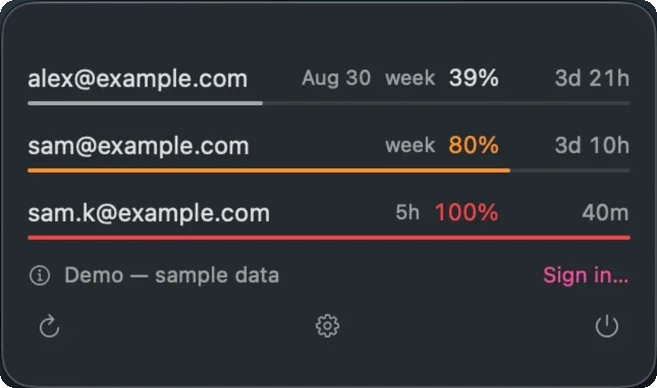
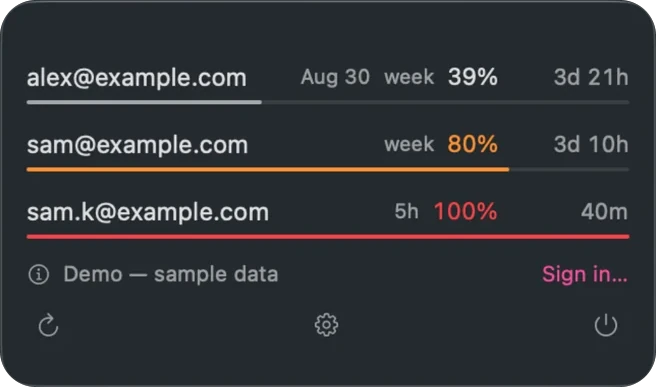
Cut the screenshots on the window's rim, and give the arc an edge
The corners had black horns on the light palette, and neither cause was in the
page: both are baked into the images by `tools/crop_screenshots.py`.

`ImageDraw.rounded_rectangle` writes 0 or 255 and nothing between, so every arc
it had drawn here was a staircase — cut through a dark window standing on a
near-white page at roughly the size the page shows it, which is the one place a
hard alpha edge has nothing to hide behind. The mask is drawn at eight times the
size and averaged down with BOX, which leaves each edge pixel holding the
fraction of itself the shape covers.

And the radius was smaller than the corner. A macOS window corner is a
continuous curve, not a circular arc: it leaves the straight edge earlier than an
arc of the same visual size and sits further from the corner along the diagonal.
A circle at the radius the corner appears to have therefore ran outside the
window for most of the arc, and what it kept was the window's own shadow, which
is at its darkest and widest exactly there. On `05-minimal` that was six pixels
of near-black in each corner; on the other three it was the violet gradient, a
hundred pixels an image, which read as grime rather than as a defect. The radii
are 15 and 36 now, each the first value at which nothing survives outside the
mask — counted, not judged by eye, because by eye the old ones looked plausible
for a year.

`05-minimal`'s box also moves in a pixel at the left and top. It had been taking
[…]

diff --git a/site/bn/index.html b/site/bn/index.html
@@ -899,7 +899,7 @@ a.lang-row:hover{background:var(--strip);text-decoration:none}
         <figure><img src="/shots/02-accounts.webp" width="718" height="500" alt="অ্যাকাউন্ট সেটিংস: একটাই তালিকায় তিনটি অ্যাকাউন্ট, প্রত্যেকের উৎস আর ভুলে যাওয়ার বোতামসহ।"></figure>
         <figure><img src="/shots/03-statistics.webp" width="717" height="500" alt="পরিসংখ্যান সেটিংস: তিনটি অ্যাকাউন্টের এক সপ্তাহের সাপ্তাহিক সীমার ব্যবহার আঁকা।"></figure>
         <figure><img src="/shots/04-notifications.webp" width="718" height="500" alt="বিজ্ঞপ্তি সেটিংস: ৯৫ ও ৮০ শতাংশে সীমারেখা, ফিরে আসার খবর আর নীরব সময়।"></figure>
-        <figure><img src="/shots/05-minimal.webp" width="657" height="388" alt="সংক্ষিপ্ত জানালা: অ্যাকাউন্টের নাম আর ব্যবহারের বার, চারপাশের সাজ ছাড়া।"></figure>
+        <figure><img src="/shots/05-minimal.webp" width="656" height="387" alt="সংক্ষিপ্ত জানালা: অ্যাকাউন্টের নাম আর ব্যবহারের বার, চারপাশের সাজ ছাড়া।"></figure>
       </div>
       <div class="rail">
         <label class="mark" for="s1">সীমা</label>

diff --git a/site/hi/index.html b/site/hi/index.html
@@ -899,7 +899,7 @@ a.lang-row:hover{background:var(--strip);text-decoration:none}
         <figure><img src="/shots/02-accounts.webp" width="718" height="500" alt="खाता सेटिंग्स: एक ही सूची में तीन खाते, हर एक के स्रोत और भूल जाने के बटन के साथ।"></figure>
         <figure><img src="/shots/03-statistics.webp" width="717" height="500" alt="आँकड़ा सेटिंग्स: तीन खातों के लिए एक सप्ताह की साप्ताहिक सीमा का उपयोग बनाया गया।"></figure>
         <figure><img src="/shots/04-notifications.webp" width="718" height="500" alt="सूचना सेटिंग्स: 95 और 80 प्रतिशत पर सीमाएँ, बहाली की सूचनाएँ और शांत घंटे।"></figure>
-        <figure><img src="/shots/05-minimal.webp" width="657" height="388" alt="न्यूनतम खिड़की: खातों के नाम और उपयोग की पट्टियाँ, चारों ओर की सजावट के बिना।"></figure>
+        <figure><img src="/shots/05-minimal.webp" width="656" height="387" alt="न्यूनतम खिड़की: खातों के नाम और उपयोग की पट्टियाँ, चारों ओर की सजावट के बिना।"></figure>
       </div>
       <div class="rail">
         <label class="mark" for="s1">सीमाएँ</label>

diff --git a/site/ru/index.html b/site/ru/index.html
@@ -899,7 +899,7 @@ a.lang-row:hover{background:var(--strip);text-decoration:none}
         <figure><img src="/shots/02-accounts.webp" width="718" height="500" alt="Настройки аккаунтов: три аккаунта в одном списке, у каждого свой источник и кнопка забыть его."></figure>
         <figure><img src="/shots/03-statistics.webp" width="717" height="500" alt="Настройки статистики: неделя расхода недельного лимита по трём аккаунтам."></figure>
         <figure><img src="/shots/04-notifications.webp" width="718" height="500" alt="Настройки уведомлений: пороги на 95 и 80 процентах, оповещения о восстановлении и тихие часы."></figure>
-        <figure><img src="/shots/05-minimal.webp" width="657" height="388" alt="Минимальное окно: имена аккаунтов и полосы расхода, без окружающей обвязки."></figure>
+        <figure><img src="/shots/05-minimal.webp" width="656" height="387" alt="Минимальное окно: имена аккаунтов и полосы расхода, без окружающей обвязки."></figure>
       </div>
       <div class="rail">
         <label class="mark" for="s1">Лимиты</label>

diff --git a/site/ar/index.html b/site/ar/index.html
@@ -899,7 +899,7 @@ a.lang-row:hover{background:var(--strip);text-decoration:none}
         <figure><img src="/shots/02-accounts.webp" width="718" height="500" alt="إعدادات الحسابات: ثلاثة حسابات في قائمة واحدة، لكل منها مصدره وزر لنسيانه."></figure>
         <figure><img src="/shots/03-statistics.webp" width="717" height="500" alt="إعدادات الإحصاءات: أسبوع من استخدام الحد الأسبوعي مرسوم لثلاثة حسابات."></figure>
         <figure><img src="/shots/04-notifications.webp" width="718" height="500" alt="إعدادات التنبيهات: عتبات عند 95 و80 بالمئة، وتنبيهات التعافي، والساعات الهادئة."></figure>
-        <figure><img src="/shots/05-minimal.webp" width="657" height="388" alt="النافذة المصغّرة: أسماء الحسابات وأشرطة الاستخدام، دون الإطار المحيط."></figure>
+        <figure><img src="/shots/05-minimal.webp" width="656" height="387" alt="النافذة المصغّرة: أسماء الحسابات وأشرطة الاستخدام، دون الإطار المحيط."></figure>
       </div>
       <div class="rail">
         <label class="mark" for="s1">الحدود</label>

diff --git a/site/fr/index.html b/site/fr/index.html
@@ -899,7 +899,7 @@ a.lang-row:hover{background:var(--strip);text-decoration:none}
         <figure><img src="/shots/02-accounts.webp" width="718" height="500" alt="Réglages des comptes : trois comptes dans une liste, chacun avec sa source et un bouton pour l'oublier."></figure>
         <figure><img src="/shots/03-statistics.webp" width="717" height="500" alt="Réglages des statistiques : une semaine d'usage de la limite hebdomadaire tracée pour trois comptes."></figure>
         <figure><img src="/shots/04-notifications.webp" width="718" height="500" alt="Réglages des alertes : seuils à 95 et 80 pour cent, alertes de rétablissement et heures calmes."></figure>
-        <figure><img src="/shots/05-minimal.webp" width="657" height="388" alt="La fenêtre minimale : noms de comptes et barres d'usage, sans l'habillage autour."></figure>
+        <figure><img src="/shots/05-minimal.webp" width="656" height="387" alt="La fenêtre minimale : noms de comptes et barres d'usage, sans l'habillage autour."></figure>
       </div>
       <div class="rail">
         <label class="mark" for="s1">Limites</label>

diff --git a/site/es/index.html b/site/es/index.html
@@ -899,7 +899,7 @@ a.lang-row:hover{background:var(--strip);text-decoration:none}
         <figure><img src="/shots/02-accounts.webp" width="718" height="500" alt="Ajustes de cuentas: tres cuentas en una lista, cada una con su origen y un botón para olvidarla."></figure>
         <figure><img src="/shots/03-statistics.webp" width="717" height="500" alt="Ajustes de estadísticas: una semana de uso del límite semanal trazada para tres cuentas."></figure>
         <figure><img src="/shots/04-notifications.webp" width="718" height="500" alt="Ajustes de avisos: umbrales al 95 y al 80 por ciento, avisos de recuperación y horas de silencio."></figure>
-        <figure><img src="/shots/05-minimal.webp" width="657" height="388" alt="La ventana mínima: nombres de cuenta y barras de uso, sin el marco alrededor."></figure>
+        <figure><img src="/shots/05-minimal.webp" width="656" height="387" alt="La ventana mínima: nombres de cuenta y barras de uso, sin el marco alrededor."></figure>
       </div>
       <div class="rail">
         <label class="mark" for="s1">Límites</label>

diff --git a/site/pt-br/index.html b/site/pt-br/index.html
@@ -899,7 +899,7 @@ a.lang-row:hover{background:var(--strip);text-decoration:none}
         <figure><img src="/shots/02-accounts.webp" width="718" height="500" alt="Ajustes de contas: três contas em uma lista, cada uma com sua origem e um botão para esquecê-la."></figure>
         <figure><img src="/shots/03-statistics.webp" width="717" height="500" alt="Ajustes de estatísticas: uma semana de uso do limite semanal traçada para três contas."></figure>
         <figure><img src="/shots/04-notifications.webp" width="718" height="500" alt="Ajustes de avisos: limiares em 95 e 80 por cento, avisos de recuperação e horas de silêncio."></figure>
-        <figure><img src="/shots/05-minimal.webp" width="657" height="388" alt="A janela mínima: nomes de conta e barras de uso, sem a moldura em volta."></figure>
+        <figure><img src="/shots/05-minimal.webp" width="656" height="387" alt="A janela mínima: nomes de conta e barras de uso, sem a moldura em volta."></figure>
       </div>
       <div class="rail">
         <label class="mark" for="s1">Limites</label>

diff --git a/site/id/index.html b/site/id/index.html
@@ -899,7 +899,7 @@ a.lang-row:hover{background:var(--strip);text-decoration:none}
         <figure><img src="/shots/02-accounts.webp" width="718" height="500" alt="Setelan akun: tiga akun dalam satu daftar, masing-masing dengan sumbernya dan tombol untuk melupakannya."></figure>
         <figure><img src="/shots/03-statistics.webp" width="717" height="500" alt="Setelan statistik: pemakaian batas mingguan selama sepekan digambar untuk tiga akun."></figure>
         <figure><img src="/shots/04-notifications.webp" width="718" height="500" alt="Setelan pemberitahuan: ambang di 95 dan 80 persen, kabar pemulihan, dan jam tenang."></figure>
-        <figure><img src="/shots/05-minimal.webp" width="657" height="388" alt="Jendela ringkas: nama akun dan bilah pemakaian, tanpa bingkai di sekelilingnya."></figure>
+        <figure><img src="/shots/05-minimal.webp" width="656" height="387" alt="Jendela ringkas: nama akun dan bilah pemakaian, tanpa bingkai di sekelilingnya."></figure>
       </div>
       <div class="rail">
         <label class="mark" for="s1">Batas</label>

diff --git a/site/index.html b/site/index.html
@@ -901,7 +901,7 @@ a.lang-row:hover{background:var(--strip);text-decoration:none}
         <figure><img src="/shots/02-accounts.webp" width="718" height="500" alt="Accounts settings: three accounts in one list, each with its source and a button to forget it."></figure>
         <figure><img src="/shots/03-statistics.webp" width="717" height="500" alt="Statistics settings: a week of weekly-limit usage plotted for three accounts."></figure>
         <figure><img src="/shots/04-notifications.webp" width="718" height="500" alt="Notifications settings: thresholds at 95 and 80 per cent, recovery alerts, and quiet hours."></figure>
-        <figure><img src="/shots/05-minimal.webp" width="657" height="388" alt="The minimal window: account names and usage bars, without the surrounding chrome."></figure>
+        <figure><img src="/shots/05-minimal.webp" width="656" height="387" alt="The minimal window: account names and usage bars, without the surrounding chrome."></figure>
       </div>
       <div class="rail">
         <label class="mark" for="s1">Limits</label>

diff --git a/site/zh-hans/index.html b/site/zh-hans/index.html
@@ -899,7 +899,7 @@ a.lang-row:hover{background:var(--strip);text-decoration:none}
         <figure><img src="/shots/02-accounts.webp" width="718" height="500" alt="账号设置：一张列表里的三个账号，每个都带有来源和一个忘记它的按钮。"></figure>
         <figure><img src="/shots/03-statistics.webp" width="717" height="500" alt="统计设置：三个账号一周的每周额度用量曲线。"></figure>
         <figure><img src="/shots/04-notifications.webp" width="718" height="500" alt="提醒设置：95% 和 80% 的阈值、恢复提醒和安静时段。"></figure>
-        <figure><img src="/shots/05-minimal.webp" width="657" height="388" alt="极简窗口：账号名称和用量条，没有周围的框架。"></figure>
+        <figure><img src="/shots/05-minimal.webp" width="656" height="387" alt="极简窗口：账号名称和用量条，没有周围的框架。"></figure>
       </div>
       <div class="rail">
         <label class="mark" for="s1">额度</label>

diff --git a/site/src/index.body.html b/site/src/index.body.html
@@ -122,7 +122,7 @@
         <figure><img src="/shots/02-accounts.webp" width="718" height="500" alt="{{attr:index.shot2_alt}}"></figure>
         <figure><img src="/shots/03-statistics.webp" width="717" height="500" alt="{{attr:index.shot3_alt}}"></figure>
         <figure><img src="/shots/04-notifications.webp" width="718" height="500" alt="{{attr:index.shot4_alt}}"></figure>
-        <figure><img src="/shots/05-minimal.webp" width="657" height="388" alt="{{attr:index.shot5_alt}}"></figure>
+        <figure><img src="/shots/05-minimal.webp" width="656" height="387" alt="{{attr:index.shot5_alt}}"></figure>
       </div>
       <div class="rail">
         <label class="mark" for="s1">{{index.shot1_name}}</label>

diff --git a/tools/crop_screenshots.py b/tools/crop_screenshots.py
@@ -1,7 +1,11 @@
 #!/usr/bin/env python3
 """Cuts the app window out of each App Store screenshot.
 
-    python3 tools/crop_screenshots.py [out-dir]     writes PNGs; run cwebp after
+    python3 tools/crop_screenshots.py [out-dir]     writes PNGs
+
+Then, for each of the four the site serves:
+
+    cwebp -q 90 -m 6 -alpha_q 100 <name>.png -o site/shots/<name>.webp
 
 The five shots in `docs/screenshots` are marketing images: a saturated gradient,
 a baked-in English caption, and the window in the lower two thirds. Neither the
@@ -13,13 +17,32 @@ Four of the five are found by saturation: the window chrome is neutral and every
 pixel of the gradient behind it, shadow included, is a saturated blue or teal.
 `05-minimal` is the exception and is measured rather than found — its window is
 a vibrancy material that takes the wallpaper's own blue, so it is no more
-neutral than the background it sits on. Its edges were read off a luminance scan
-instead: a bright one-pixel border at x 392 and 1046, y 314 and 699.
+neutral than the background it sits on. Its edges were read off a luminance
+scan: the window's own bright rim runs down x 393 and 1046 and across y 315 and
+700, with the shadow's near-black contact line one pixel outside each of them.
 
 All five are cut, and the site serves four: the landing's first slide is the
 hand-built mock rather than a photograph of the same window, so `01-limits` has
 nowhere to go. It is still cut here because the next thing to want it is the
 README, and a tool that quietly skipped one of its inputs would be a trap.
+
+Two things about the corners, both of which showed as black horns on the light
+palette before they were fixed.
+
+The mask is drawn at eight times the size and averaged down, because
+`ImageDraw.rounded_rectangle` writes 0 or 255 and nothing between: at 1:1 the
+arc is a staircase, and a staircase cut through a dark window on a near-white
+page is visible at the size the page shows it. Averaging an 8x mask gives each
+edge pixel its real coverage, which is what an antialiased edge is.
+
+And the radius is larger than the corner looks. A macOS window corner is a
+continuous curve, not a circular arc: it leaves the straight edge earlier than
+an arc of the same visual size and sits further from the corner along the
+diagonal. A circle drawn at the radius the corner appears to have therefore
+passes outside the window for most of the arc, and what it keeps is the shadow
+— which is at its darkest and widest exactly there, at the corner. The radii
+below are the ones that put the whole arc on the window's own rim; each was
+chosen by counting what survives outside it, not by eye.
 """
 
 import pathlib
@@ -33,8 +56,9 @@ OUT = pathlib.Path(sys.argv[1]) if len(sys.argv) > 1 else HERE / "site" / "shots
 OUT.mkdir(parents=True, exist_ok=True)
 
 CAPTION_ENDS = 240          # no window starts above this; every caption ends by it
-MEASURED = {"05-minimal": ((391, 313, 1048, 701), 15)}
-RADIUS = 10                 # the macOS window corner at this scale
+MEASURED = {"05-minimal": ((392, 314, 1048, 701), 36)}
+RADIUS = 15                 # the settings window's corner, cut on its own rim
+SUPERSAMPLE = 8             # mask resolution, averaged back down for the edge
 
 
 def found_by_saturation(image):
@@ -55,6 +79,18 @@ def found_by_saturation(image):
     return left + 1, top + 1, right, bottom
 
 
+def rounded_mask(size, radius, scale=SUPERSAMPLE):
+    """An antialiased rounded rectangle: drawn hard at `scale`, averaged to 1:1."""
+    width, height = size
+    big = Image.new("L", (width * scale, height * scale), 0)
+    ImageDraw.Draw(big).rounded_rectangle(
+        [0, 0, width * scale - 1, height * scale - 1],
+        radius=radius * scale, fill=255)
+    # BOX is an exact area average at an integer reduction, so every edge pixel
+    # ends up holding the fraction of itself the shape covers. LANCZOS rings.
+    return big.resize((width, height), Image.BOX)
+
+
 for path in sorted(SOURCE.glob("*.webp")):
     image = Image.open(path).convert("RGB")
     box, radius = MEASURED.get(path.stem, (None, RADIUS))
@@ -62,11 +98,7 @@ for path in sorted(SOURCE.glob("*.webp")):
         box = found_by_saturation(image)
 
     cut = image.crop(box)
-    width, height = cut.size
-    mask = Image.new("L", (width, height), 0)
-    ImageDraw.Draw(mask).rounded_rectangle([0, 0, width - 1, height - 1],
-                                           radius=radius, fill=255)
-    out = Image.new("RGBA", (width, height))
-    out.paste(cut, mask=mask)
+    out = Image.new("RGBA", cut.size)
+    out.paste(cut, mask=rounded_mask(cut.size, radius))
     out.save(OUT / f"{path.stem}.png")
-    print(f"  {path.stem}: {width}x{height}")
+    print(f"  {path.stem}: {cut.size[0]}x{cut.size[1]}")
